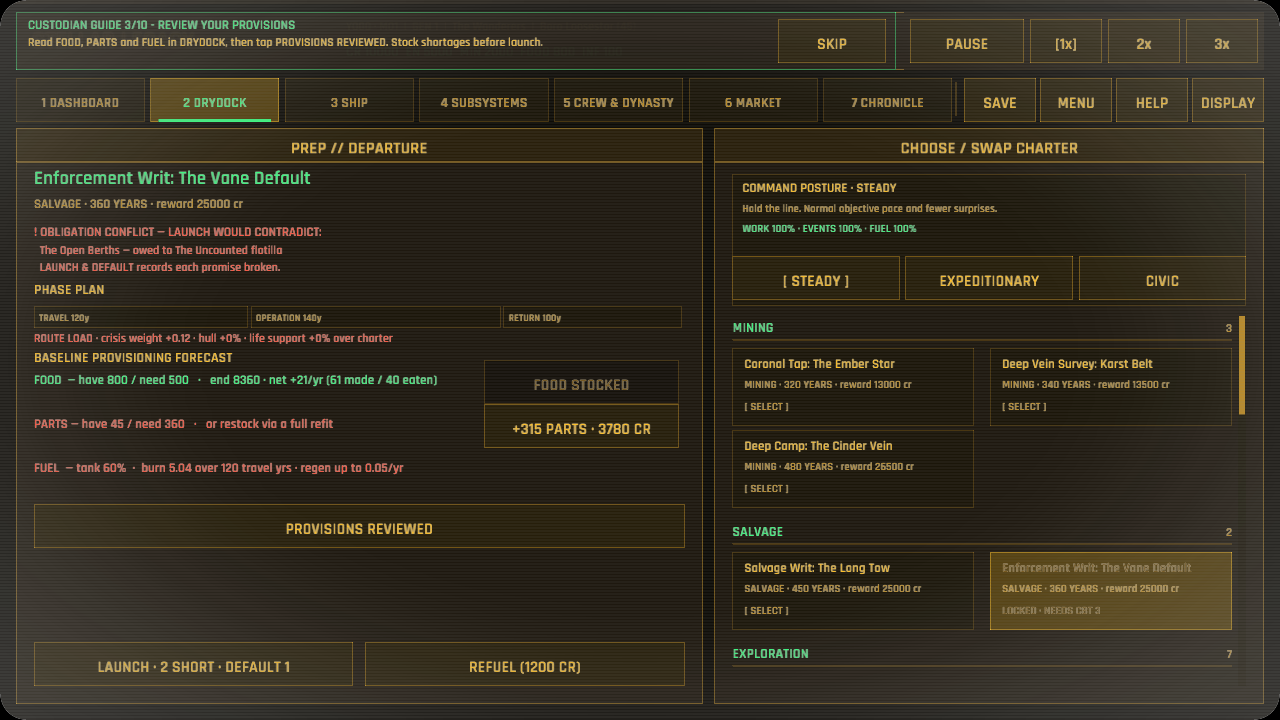
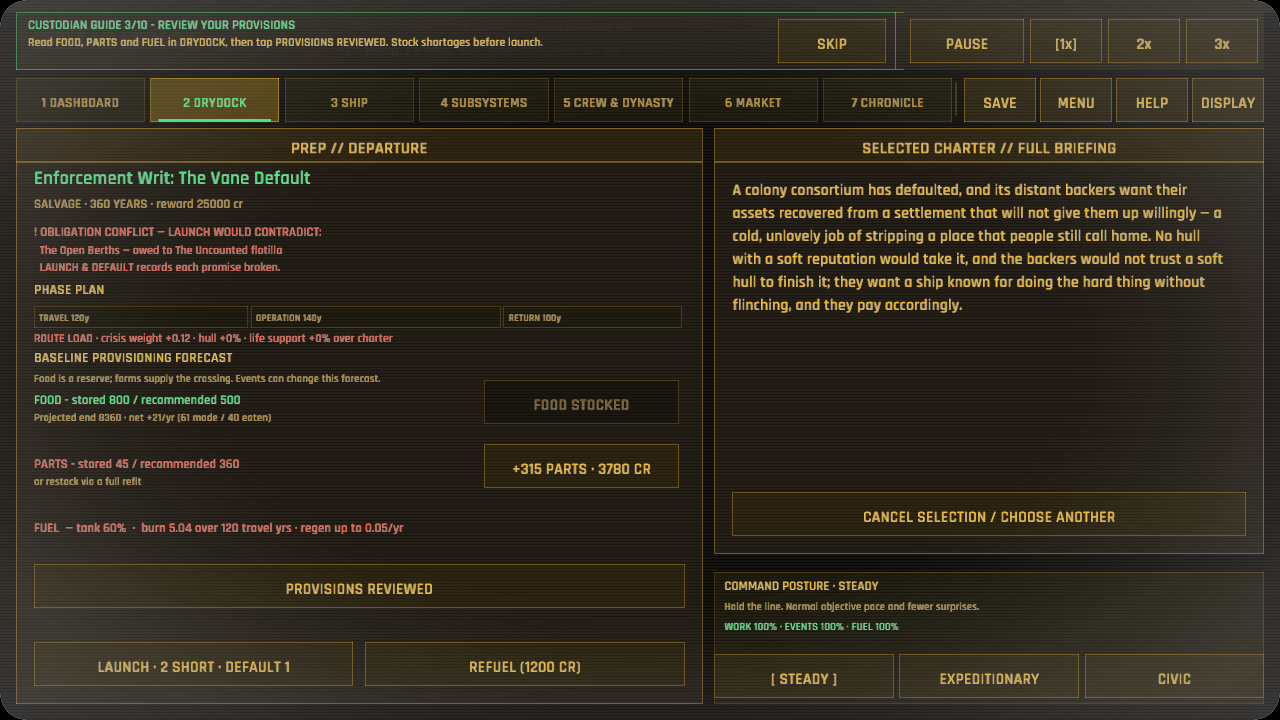
The galley sails with a reserve instead of a mountain (food balance and forecasts)
Start new campaigns with 1500 food and explain net-production reserves in PREP. Compare old and new stocks on 288 matched seeded voyages each: all remain viable with no extinction under the maintenance policy. Correct two tests that assumed gross consumption or skipped decades of production. All 485 active unit tests, the standards test and full publisher passed; forecast captures were inspected.

diff --git a/src/simulation/autoplay/tests/food_balance.rs b/src/simulation/autoplay/tests/food_balance.rs
@@ -1,0 +1,55 @@
+//! Compare reserve changes with the same seeds and maintenance policy.
+use super::*;
+
+#[test]
+fn smaller_departure_reserve_keeps_starter_and_long_voyages_viable() {
+    let data = GameData::load().unwrap();
+    let ids: Vec<_> = GameData::sorted_ids(&data.contracts)
+        .into_iter()
+        .filter(|id| data.contracts.get(id).unwrap().min_renown == 0 || id == "the_deep_camp")
+        .collect();
+    let mut results = Vec::new();
+    for stock in [12_000, data.config.starting_resources.food] {
+        let mut runs = 0;
+        let mut good = 0;
+        let mut extinct = 0;
+        let mut end_food = 0;
+        for id in &ids {
+            for legacy in GameData::sorted_ids(&data.legacies) {
+                for seed in 0..16 {
+                    let mut sim = SimState::new_campaign(
+                        &data,
+                        &legacy,
+                        seed,
+                        &crate::state::sim::founding_faction_ids(&data),
+                    );
+                    sim.resources.food = stock;
+                    let outcome = play_mission(
+                        &mut sim,
+                        &data,
+                        id,
+                        data.contracts.get(id).unwrap().target_duration_years + 160,
+                    );
+                    runs += 1;
+                    good += usize::from(outcome.completed && outcome.final_score >= 0.45);
+                    extinct += usize::from(outcome.extinct);
+                    end_food += sim.resources.food;
+                    assert!(
+                        outcome.completed || outcome.extinct,
+                        "{id}/{legacy}/{seed} stalled"
+                    );
+                }
+            }
+        }
+        eprintln!("Starting food {stock}: {good}/{runs} score >= .45; {extinct} extinctions; mean ending food {}", end_food / runs as i64);
+        results.push((runs, good, extinct));
+    }
+    assert!(
+        results[1].1 + results[0].0 / 20 >= results[0].1,
+        "reserve change loses over five percentage points of viable outcomes"
+    );
+    assert!(
+        results[1].2 <= results[0].2 + results[0].0 / 100,
+        "reserve change materially increases extinction"
+    );
+}

diff --git a/src/ui/prep.rs b/src/ui/prep.rs
@@ -16,7 +16,7 @@ use macroquad_toolkit::ui::{draw_ui_text_ex, RectExt};
 /// is the *stride* that decides it: a hit area grows only halfway toward its
 /// neighbour, so rows packed at 30 cap their targets at 30 however tall the
 /// button is drawn.
-const PROVISION_STRIDE: f32 = 44.0;
+const PROVISION_STRIDE: f32 = 64.0;
 
 fn launch_commit_label(conflicts: usize, shortfalls: usize) -> String {
     match (conflicts, shortfalls) {
@@ -45,17 +45,20 @@ fn provision_line(x: f32, y: f32, label: &str, have: i64, need: i64, note: &str)
     } else {
         term::accent()
     };
-    let tail = if note.is_empty() {
-        String::new()
-    } else {
-        format!("   ·   {note}")
-    };
     draw_ui_text_ex(
-        &format!("{label} — have {have} / need {need}{tail}"),
+        &format!("{label} - stored {have} / recommended {need}"),
         x,
         y,
         TextStyle::new(13.0, color).params(),
     );
+    if !note.is_empty() {
+        draw_ui_text_ex(
+            note,
+            x,
+            y + 17.0,
+            TextStyle::new(11.0, term::dim()).params(),
+        );
+    }
 }
 
 fn draw_prep(ctx: &GameplayCtx<'_>, rect: Rect, pointer: Pointer, actions: &mut Vec<UiAction>) {
@@ -181,6 +184,13 @@ fn draw_prep(ctx: &GameplayCtx<'_>, rect: Rect, pointer: Pointer, actions: &mut 
         y,
         TextStyle::new(14.0, term::primary()).params(),
     );
+    y += 20.0;
+    draw_ui_text_ex(
+        "Food is a reserve; farms supply the crossing. Events can change this forecast.",
+        content.x,
+        y,
+        TextStyle::new(11.0, term::dim()).params(),
+    );
     y += 22.0;
     // Each provisioning row carries its own stock-up button so filling the
     // stores never means leaving the PREP screen.
@@ -195,11 +205,11 @@ fn draw_prep(ctx: &GameplayCtx<'_>, rect: Rect, pointer: Pointer, actions: &mut 
     provision_line(
         content.x,
         y,
-        "FOOD ",
+        "FOOD",
         sim.resources.food,
         food_need,
         &format!(
-            "end {} · net {:+}/yr ({} made / {} eaten)",
+            "Projected end {} · net {:+}/yr ({} made / {} eaten)",
             forecast.projected_food_end,
             forecast.annual_food_net,
             forecast.annual_food_output,

diff --git a/src/data/tests/economy.rs b/src/data/tests/economy.rs
@@ -15,15 +15,28 @@ fn a_new_ship_sails_provisioned_for_a_starter_charter() {
         .map(|(_, c)| c.target_duration_years)
         .min()
         .expect("at least one renown-0 charter");
-    let food_need = (config.starting_population as f32
-        * config.food_per_person_per_year
-        * starter_years as f32)
-        .ceil() as i64;
-    assert!(
-        config.starting_resources.food >= food_need,
-        "founding food {} must cover a {starter_years}-yr starter charter ({food_need})",
-        config.starting_resources.food
-    );
+    // Farms replace consumption during the crossing: compare with the same
+    // net-production departure forecast the player sees, not gross food use.
+    let starter = data
+        .contracts
+        .iter()
+        .map(|(_, c)| c)
+        .filter(|c| c.min_renown == 0)
+        .min_by_key(|c| c.target_duration_years)
+        .unwrap();
+    for legacy in GameData::sorted_ids(&data.legacies) {
+        let sim = crate::state::sim::SimState::new_campaign(
+            &data,
+            &legacy,
+            1,
+            &crate::state::sim::founding_faction_ids(&data),
+        );
+        let forecast = crate::simulation::contract::forecast::for_departure(&sim, &data, starter);
+        assert!(
+            sim.resources.food >= forecast.recommended_food_store,
+            "{legacy} needs a stocked starter reserve"
+        );
+    }
     assert!(
         config.starting_spare_parts >= config.parts_upkeep_per_year * starter_years as i64,
         "founding parts {} must cover {starter_years} years of upkeep",

diff --git a/src/simulation/event_resolver/tests/chains.rs b/src/simulation/event_resolver/tests/chains.rs
@@ -56,6 +56,9 @@ fn every_obligation_chain_crosses_a_succession_and_offers_three_endings() {
             crate::state::sim::ObligationStatus::Defaulted,
         ] {
             let mut sim = SimState::new_campaign(&data, "preservers", 701, &picks);
+            // This fixture jumps generations without simulating their farming.
+            // Fund the future payment explicitly; starting stores are only a reserve.
+            sim.resources.food = 12_000;
             apply_outcome(&mut sim, &data, seed, 0);
             assert_eq!(sim.obligations[0].authored_id, authored_id);
             assert_eq!(sim.scheduled_events[0].template_id, due_id);

diff --git a/src/simulation/autoplay/tests.rs b/src/simulation/autoplay/tests.rs
@@ -465,3 +465,5 @@ fn an_under_fuelled_launch_stalls_and_falls_behind() {
         "the calendar/contract gap is exactly the stalled months"
     );
 }
+
+mod food_balance;

diff --git a/docs/food_balance.md b/docs/food_balance.md
@@ -1,0 +1,12 @@
+# Departure food reserve validation
+
+User testing reported 12,000 food against a recommended reserve of 500. New campaigns now start with 1,500 food, three times that baseline reserve. Existing saves retain their stores. Forecasting still accounts for current production, consumption, route tolls and duration; it does not promise protection from future events, deterioration or population change.
+
+The deterministic `smaller_departure_reserve_keeps_starter_and_long_voyages_viable` test compares the old and new stocks on the same 288 combinations: six starter/long charter selections, three legacies, and seeds 0–15. It uses the existing maintenance-oriented autoplay policy, including legal affordable decisions and maintenance. These are automated policy results, not human playtest success rates.
+
+| Starting food | Completed with score at least 0.45 | Dynasty extinctions | Mean ending food |
+| --- | --- | --- | --- |
+| 12,000 | 288 / 288 | 0 | 9,744 |
+| 1,500 | 288 / 288 | 0 | 6,865 |
+
+The lower reserve removes excessive starting inventory without reducing viable outcomes in this cohort. Production can still accumulate a surplus during long voyages. Further human testing should assess how often players notice and act on food risk, rather than treating a large ending stock alone as proof that consumption must increase.
